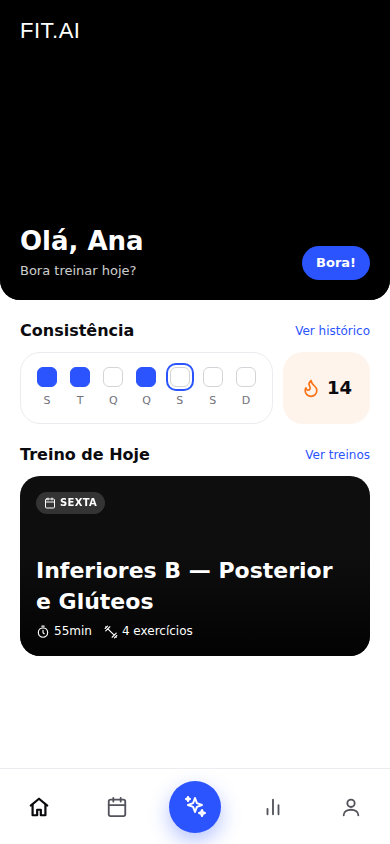
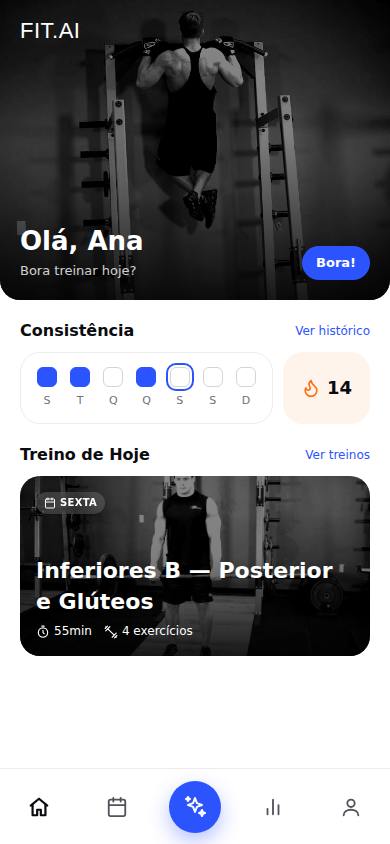
feat: bundle public-domain workout photos served by the API
- Covers in backend/FitAi.Api/wwwroot/covers (Free Exercise DB, public domain), grayscale to match the Figma
- Relative cover paths (/covers/...) resolved by Web and App against the API URL; no external CDN dependency
- CoverImageUrl validation accepts relative paths; login/home/plan heroes use the new photos
- Retake README screenshots

Claude-Session: https://claude.ai/code/session_012yuFpqHVZdPZZDQKMsAnLU

diff --git a/app/FitAi.App/Views/LoginPage.xaml b/app/FitAi.App/Views/LoginPage.xaml
@@ -7,7 +7,7 @@
              BackgroundColor="Black"
              Shell.NavBarIsVisible="False">
     <Grid RowDefinitions="*,Auto">
-        <Image Grid.RowSpan="2" Source="https://gw8hy3fdcv.ufs.sh/f/ccoBDpLoAPCOW3fJmqZe4yoUcwvRPQa8kmFprzNiC30hqftL" Aspect="AspectFill" />
+        <Image Grid.RowSpan="2" Source="{Binding HeroImage}" Aspect="AspectFill" />
         <Label Text="FIT.AI" FontSize="44" FontAttributes="Bold" TextColor="White" HorizontalOptions="Center" Margin="0,56,0,0" />
         <Border Grid.Row="1" BackgroundColor="{StaticResource Primary}" StrokeThickness="0" Padding="24,32,24,24">
             <Border.StrokeShape><RoundRectangle CornerRadius="28,28,0,0" /></Border.StrokeShape>

diff --git a/frontend/FitAi.Web/wwwroot/css/site.css b/frontend/FitAi.Web/wwwroot/css/site.css
@@ -223,7 +223,8 @@ img { max-width: 100%; display: block; }
 
 /* ---------- Login ---------- */
 .login {
-  min-height: 100dvh; display: flex; flex-direction: column; background: #000 center top/cover no-repeat; color: #fff;
+  /* A foto ocupa só a parte de cima (o painel azul cobre o resto): altura fixa em vez de "cover" evita o zoom excessivo. */
+  min-height: 100dvh; display: flex; flex-direction: column; background: #000 45% top/auto 62% no-repeat; color: #fff;
 }
 .login .brand { text-align: center; padding-top: 48px; }
 .login .panel {

diff --git a/frontend/FitAi.Web/ViewModels/ViewModels.cs b/frontend/FitAi.Web/ViewModels/ViewModels.cs
@@ -2,13 +2,34 @@ using FitAi.Contracts;
 
 namespace FitAi.Web.ViewModels;
 
+/// <summary>
+/// Fotos de capa. Ficam na API (wwwroot/covers) e são referenciadas por caminho relativo;
+/// aqui viram URL absoluta usando Api:PublicUrl (definido no Program.cs).
+/// </summary>
 public static class Images
 {
-    public const string Upper = "https://gw8hy3fdcv.ufs.sh/f/ccoBDpLoAPCO3y8pQ6GBg8iqe9pP2JrHjwd1nfKtVSQskI0v";
-    public const string Lower = "https://gw8hy3fdcv.ufs.sh/f/ccoBDpLoAPCOgCHaUgNGronCvXmSzAMs1N3KgLdE5yHT6Ykj";
-    public const string Login = "https://gw8hy3fdcv.ufs.sh/f/ccoBDpLoAPCOW3fJmqZe4yoUcwvRPQa8kmFprzNiC30hqftL";
+    public const string Upper = "/covers/upper-1.jpg";
+    public const string Login = "/covers/login.jpg";
+    public const string Home = "/covers/home.jpg";
+    public const string Plan = "/covers/plan.jpg";
 
-    public static string Or(string? url, string fallback = Upper) => string.IsNullOrWhiteSpace(url) ? fallback : url;
+    public static readonly (string Label, string Path)[] Suggestions =
+    [
+        ("Superior 1 — supino", "/covers/upper-1.jpg"),
+        ("Superior 2 — remada", "/covers/upper-2.jpg"),
+        ("Superior 3 — desenvolvimento", "/covers/upper-3.jpg"),
+        ("Superior 4 — supino inclinado", "/covers/upper-4.jpg"),
+        ("Inferior 1 — agachamento", "/covers/lower-1.jpg"),
+        ("Inferior 2 — leg press", "/covers/lower-2.jpg"),
+        ("Inferior 3 — avanço", "/covers/lower-3.jpg"),
+        ("Inferior 4 — stiff", "/covers/lower-4.jpg"),
+    ];
+
+    public static string ApiPublicUrl { get; set; } = "http://localhost:8080";
+
+    public static string Resolve(string path) => path.StartsWith('/') ? ApiPublicUrl.TrimEnd('/') + path : path;
+
+    public static string Or(string? url, string fallback = Upper) => Resolve(string.IsNullOrWhiteSpace(url) ? fallback : url);
 }
 
 public sealed record LoginViewModel(AuthProvidersResponse Providers, string? Error);

diff --git a/backend/FitAi.Api/Data/DemoDataSeeder.cs b/backend/FitAi.Api/Data/DemoDataSeeder.cs
@@ -16,10 +16,11 @@ public static class DemoDataSeeder
     public const string NewStudentEmail = "novo.aluno@fitai.local";
     public const string InviteCode = "FIT-DEMO26";
 
-    private const string Upper1 = "https://gw8hy3fdcv.ufs.sh/f/ccoBDpLoAPCO3y8pQ6GBg8iqe9pP2JrHjwd1nfKtVSQskI0v";
-    private const string Upper2 = "https://gw8hy3fdcv.ufs.sh/f/ccoBDpLoAPCOW3fJmqZe4yoUcwvRPQa8kmFprzNiC30hqftL";
-    private const string Lower1 = "https://gw8hy3fdcv.ufs.sh/f/ccoBDpLoAPCOgCHaUgNGronCvXmSzAMs1N3KgLdE5yHT6Ykj";
-    private const string Lower2 = "https://gw8hy3fdcv.ufs.sh/f/ccoBDpLoAPCO85RVu3morROwZk5NPhs1jzH7X8TyEvLUCGxY";
+    private const string Upper1 = "/covers/upper-1.jpg";
+    private const string Upper2 = "/covers/upper-3.jpg";
+    private const string Lower1 = "/covers/lower-1.jpg";
+    private const string Lower2 = "/covers/lower-4.jpg";
+    private const string PlanCover = "/covers/plan.jpg";
 
     public static async Task SeedAsync(AppDbContext db, TimeProvider timeProvider, CancellationToken ct = default)
     {
@@ -49,7 +50,7 @@ public static class DemoDataSeeder
             Name = "Hipertrofia — Upper/Lower",
             User = student,
             Goal = WorkoutGoal.HYPERTROPHY,
-            CoverImageUrl = Upper1,
+            CoverImageUrl = PlanCover,
             IsActive = true,
             Source = WorkoutPlanSource.TEACHER,
             CreatedBy = teacher,

diff --git a/app/FitAi.App/ViewModels/HomeViewModel.cs b/app/FitAi.App/ViewModels/HomeViewModel.cs
@@ -16,7 +16,7 @@ public partial class HomeViewModel(ApiClient api, AuthService auth) : BaseViewMo
 
     [ObservableProperty] public partial string Greeting { get; set; } = "Olá!";
     [ObservableProperty] public partial string Subtitle { get; set; } = "Bora treinar hoje?";
-    [ObservableProperty] public partial string HeroImage { get; set; } = Format.Cover(null);
+    public string HeroImage { get; } = Format.Cover("/covers/home.jpg");
     [ObservableProperty] public partial int Streak { get; set; }
     [ObservableProperty] public partial bool HasPlan { get; set; }
     [ObservableProperty] public partial bool HasTraining { get; set; }
@@ -44,7 +44,6 @@ public partial class HomeViewModel(ApiClient api, AuthService auth) : BaseViewMo
         HasTraining = _today is { IsRest: false };
         IsRestDay = _today is { IsRest: true };
         Subtitle = IsRestDay ? "Hoje é dia de descanso" : "Bora treinar hoje?";
-        HeroImage = Format.Cover(_today?.CoverImageUrl);
         TodayCover = Format.Cover(_today?.CoverImageUrl);
         TodayName = _today?.Name ?? "";
         TodayWeekDay = _today is null ? "" : Format.DayName(_today.WeekDay).ToUpperInvariant();

diff --git a/backend/FitAi.Api/Ai/CoachPrompt.cs b/backend/FitAi.Api/Ai/CoachPrompt.cs
@@ -2,17 +2,12 @@ namespace FitAi.Api.Ai;
 
 public static class CoachPrompt
 {
+    /// <summary>Fotos servidas pela própria API (wwwroot/covers). Caminhos relativos: os clientes resolvem a partir da URL da API.</summary>
     public static readonly IReadOnlyList<string> DefaultUpperBodyCoverImages =
-    [
-        "https://gw8hy3fdcv.ufs.sh/f/ccoBDpLoAPCO3y8pQ6GBg8iqe9pP2JrHjwd1nfKtVSQskI0v",
-        "https://gw8hy3fdcv.ufs.sh/f/ccoBDpLoAPCOW3fJmqZe4yoUcwvRPQa8kmFprzNiC30hqftL",
-    ];
+    ["/covers/upper-1.jpg", "/covers/upper-2.jpg", "/covers/upper-3.jpg", "/covers/upper-4.jpg"];
 
     public static readonly IReadOnlyList<string> DefaultLowerBodyCoverImages =
-    [
-        "https://gw8hy3fdcv.ufs.sh/f/ccoBDpLoAPCOgCHaUgNGronCvXmSzAMs1N3KgLdE5yHT6Ykj",
-        "https://gw8hy3fdcv.ufs.sh/f/ccoBDpLoAPCO85RVu3morROwZk5NPhs1jzH7X8TyEvLUCGxY",
-    ];
+    ["/covers/lower-1.jpg", "/covers/lower-2.jpg", "/covers/lower-3.jpg", "/covers/lower-4.jpg"];
 
     /// <summary>Prompt padrão. As seções de imagens de capa e de permissões são anexadas em <see cref="Build"/>.</summary>
     public const string Default = """

diff --git a/app/FitAi.App/Services/Format.cs b/app/FitAi.App/Services/Format.cs
@@ -49,8 +49,12 @@ public static class Format
 
     public static string Kg(int grams) => (grams / 1000.0).ToString("0.#", PtBr);
 
-    public static string Cover(string? url) =>
-        string.IsNullOrWhiteSpace(url) ? "https://gw8hy3fdcv.ufs.sh/f/ccoBDpLoAPCO3y8pQ6GBg8iqe9pP2JrHjwd1nfKtVSQskI0v" : url;
+    /// <summary>Capas vêm da API como caminho relativo (/covers/...); resolve para URL absoluta.</summary>
+    public static string Cover(string? url, string fallback = "/covers/upper-1.jpg")
+    {
+        var value = string.IsNullOrWhiteSpace(url) ? fallback : url;
+        return value.StartsWith('/') ? AppConfig.ApiBaseUrl.TrimEnd('/') + value : value;
+    }
 
     public static string ErrorMessage(Exception e) => e switch
     {

diff --git a/shared/FitAi.Contracts/CoverImageUrlAttribute.cs b/shared/FitAi.Contracts/CoverImageUrlAttribute.cs
@@ -1,0 +1,17 @@
+using System.ComponentModel.DataAnnotations;
+
+namespace FitAi.Contracts;
+
+/// <summary>
+/// URL de imagem de capa: absoluta (http/https) ou caminho relativo à API (ex.: /covers/upper-1.jpg).
+/// </summary>
+[AttributeUsage(AttributeTargets.Property)]
+public sealed class CoverImageUrlAttribute() : ValidationAttribute("URL de imagem inválida.")
+{
+    public static bool IsValid(string? value) =>
+        string.IsNullOrWhiteSpace(value)
+        || (value.StartsWith('/') && !value.StartsWith("//") && !value.Contains(".."))
+        || (Uri.TryCreate(value, UriKind.Absolute, out var uri) && uri.Scheme is "http" or "https");
+
+    public override bool IsValid(object? value) => IsValid(value as string);
+}

diff --git a/backend/FitAi.Api/UseCases/Admin/UpdateAiSettings.cs b/backend/FitAi.Api/UseCases/Admin/UpdateAiSettings.cs
@@ -34,7 +34,7 @@ public sealed class UpdateAiSettings(AiSettingsStore store, IOptions<AiOptions> 
     private static List<string> CleanUrls(IEnumerable<string> urls)
     {
         var result = urls.Select(u => u.Trim()).Where(u => u.Length > 0).Distinct().ToList();
-        var invalid = result.FirstOrDefault(u => !Uri.TryCreate(u, UriKind.Absolute, out var uri) || uri.Scheme is not ("http" or "https"));
+        var invalid = result.FirstOrDefault(u => !CoverImageUrlAttribute.IsValid(u));
         if (invalid is not null) throw new ValidationException($"URL de imagem inválida: {invalid}");
         return result;
     }

diff --git a/tests/FitAi.Api.Tests/CoverImageUrlTests.cs b/tests/FitAi.Api.Tests/CoverImageUrlTests.cs
@@ -1,0 +1,17 @@
+using FitAi.Contracts;
+
+namespace FitAi.Api.Tests;
+
+public class CoverImageUrlTests
+{
+    [Theory]
+    [InlineData(null, true)]
+    [InlineData("", true)]
+    [InlineData("/covers/upper-1.jpg", true)]
+    [InlineData("https://cdn.exemplo.com/foto.jpg", true)]
+    [InlineData("//evil.com/x.jpg", false)]
+    [InlineData("/covers/../appsettings.json", false)]
+    [InlineData("javascript:alert(1)", false)]
+    [InlineData("foto.jpg", false)]
+    public void Validates(string? value, bool expected) => Assert.Equal(expected, CoverImageUrlAttribute.IsValid(value));
+}

diff --git a/shared/FitAi.Contracts/WorkoutPlans.cs b/shared/FitAi.Contracts/WorkoutPlans.cs
@@ -79,7 +79,7 @@ public sealed class SaveWorkoutPlanRequest
 
     public WorkoutGoal? Goal { get; set; }
 
-    [Url]
+    [CoverImageUrl]
     public string? CoverImageUrl { get; set; }
 
     [Required, MinLength(1), MaxLength(7)]
@@ -98,7 +98,7 @@ public sealed class SaveWorkoutDayRequest
     [Range(0, 60 * 60 * 6)]
     public int EstimatedDurationInSeconds { get; set; }
 
-    [Url]
+    [CoverImageUrl]
     public string? CoverImageUrl { get; set; }
 
     public List<SaveWorkoutExerciseRequest> Exercises { get; set; } = [];

diff --git a/app/FitAi.App/ViewModels/PlanViewModel.cs b/app/FitAi.App/ViewModels/PlanViewModel.cs
@@ -35,7 +35,7 @@ public partial class PlanViewModel(ApiClient api) : BaseViewModel
 
         PlanName = plan.Name;
         Goal = Format.Goal(plan.Goal).ToUpperInvariant();
-        Cover = Format.Cover(plan.CoverImageUrl);
+        Cover = Format.Cover(plan.CoverImageUrl, "/covers/plan.jpg");
         ByTeacher = plan.Source == WorkoutPlanSource.TEACHER;
         foreach (var weekDay in Format.WeekOrder)
         {
